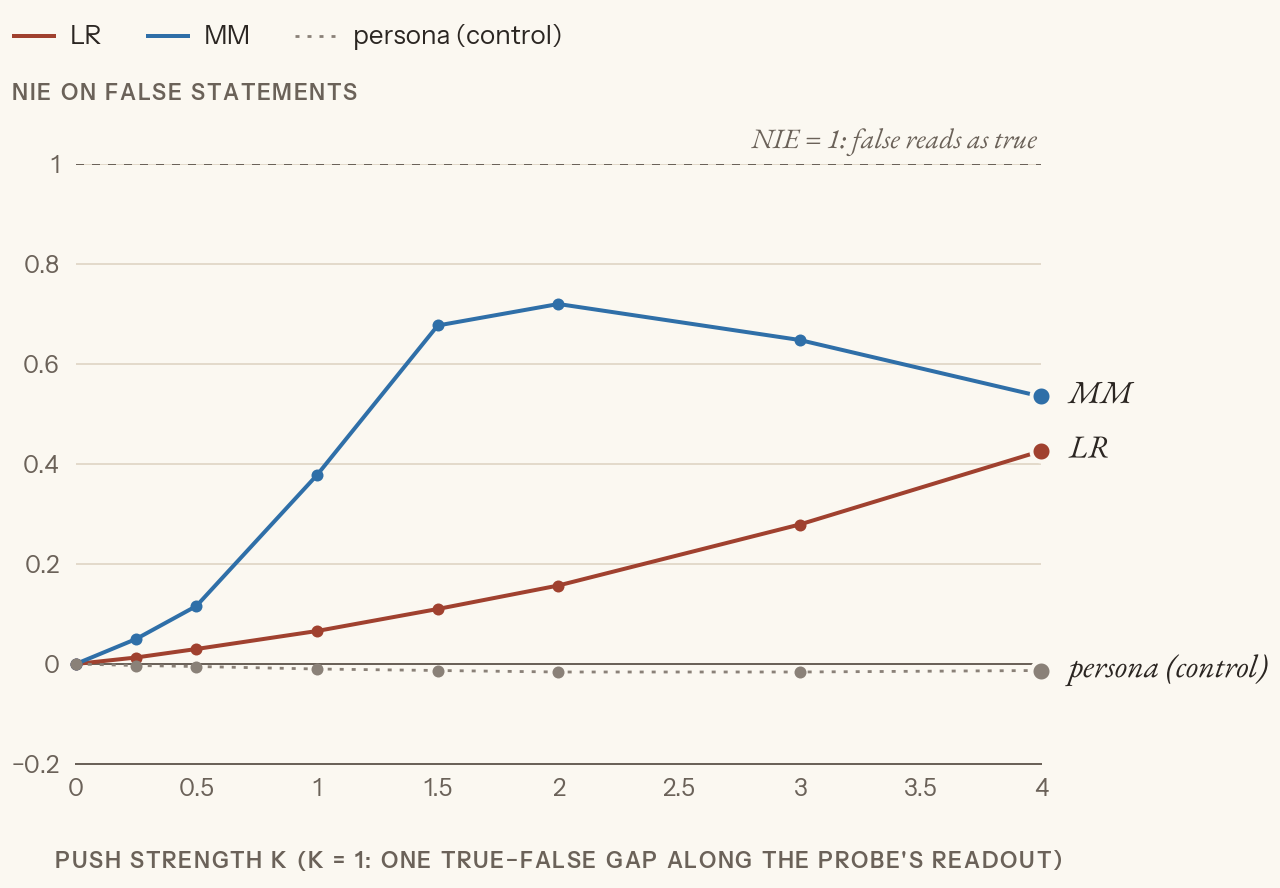
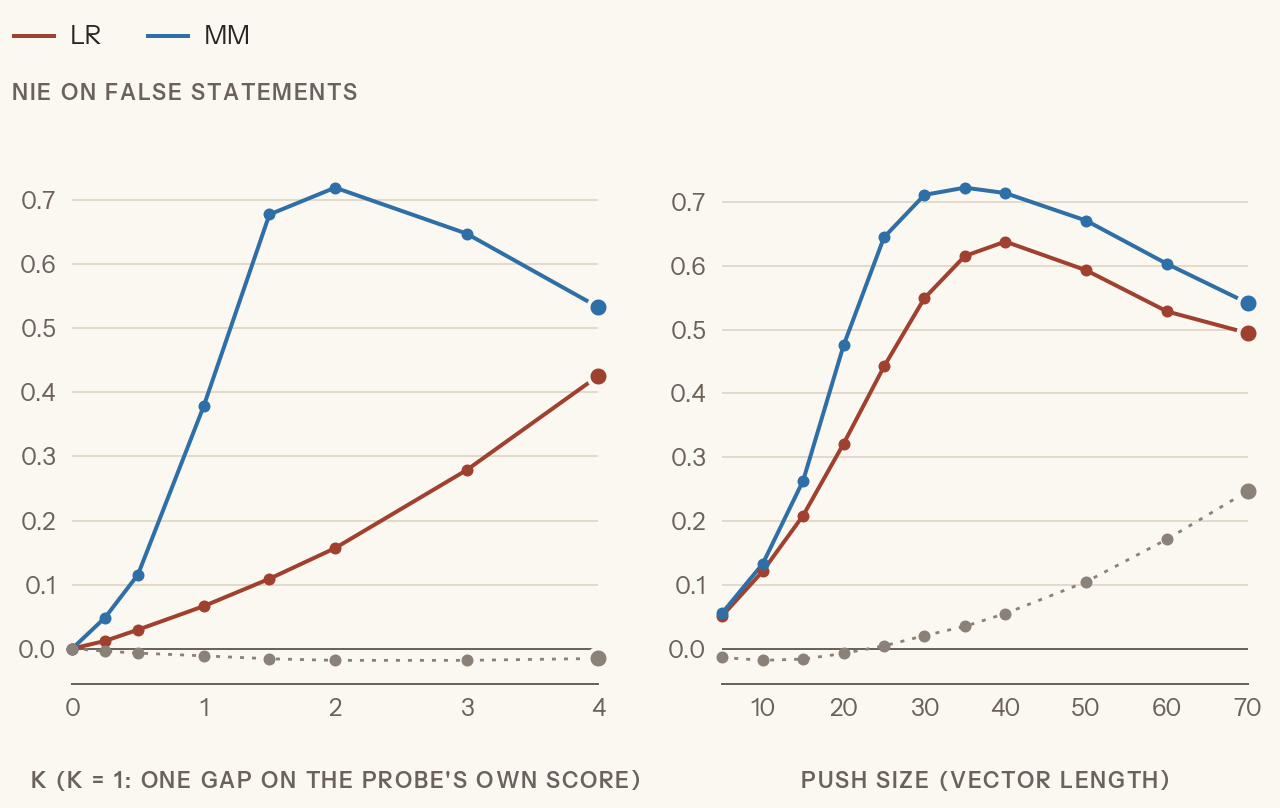
Finding 2: rerun NIE at equal push length; LR and MM are nearly the same lever
Matched by vector length (5-70), LR peaks at 0.64 and MM at 0.72. The 4-6x gap
by the paper's k was mostly MM's vector being 3x longer. README finding 2 now
explains NIE and shows both views.

diff --git a/topics/linear-probes/03_causal.py b/topics/linear-probes/03_causal.py
@@ -60,13 +60,26 @@ curves = pd.DataFrame({n: [nie(v, k) for k in KS] for n, v in V.items()}, index=
 display(curves.T.round(2))
 log.info("NIE at k = 1 / 2 / 4: %s", " · ".join(f"{n} {c[1]:.2f} / {c[2]:.2f} / {c[4]:.2f}" for n, c in curves.items()))
 
+# %% Match by push size instead
+LENGTHS = [5, 10, 15, 20, 25, 30, 35, 40, 50, 60, 70]   # |k·v|: how far the activations actually move
+by_length = pd.DataFrame({n: [nie(v, L / np.linalg.norm(v)) for L in LENGTHS] for n, v in V.items()},
+                         index=pd.Index(LENGTHS, name="length"))
+display(by_length.T.round(2))
+log.info("NIE at push length 20 / 35 / 70: %s",
+         " · ".join(f"{n} {c[20]:.2f} / {c[35]:.2f} / {c[70]:.2f}" for n, c in by_length.items()))
+
 # %% Plot the curves
-savoy.chart("line", {
-    "x": {"title": "push strength k (k = 1: one true−false gap along the probe's readout)", "values": KS},
-    "y": {"title": "NIE on false statements"}, "points": "all",
-    "series": [{"id": n, "label": n, "values": list(c), "baseline": n == "persona (control)"} for n, c in curves.items()],
-    "refs": [{"y": 0}, {"y": 1, "label": "NIE = 1: false reads as true", "threshold": True}],
-}, lib.TOPIC_DIR / "figures/nie_curves.png")
+fig, (a, b) = savoy.figure(1, 2, height=260, ytitle="NIE on false statements",
+                           xtitle=["k (k = 1: one gap on the probe's own score)", "push size (vector length)"])
+for i, n in enumerate(V):
+    c = None if n == "persona (control)" else savoy.color(i)
+    savoy.line(a, KS, list(curves[n]), c, points=True, baseline=c is None)
+    savoy.line(b, LENGTHS, list(by_length[n]), c, points=True, baseline=c is None)
+    if c is not None:
+        savoy.key(fig, n, c)
+for ax in (a, b):
+    savoy.ref(ax, 0, None)
+savoy.save(fig, lib.TOPIC_DIR / "figures/nie_curves.png")
 
 # %% [markdown]
 # ## Part 2 — What the push does to free text

diff --git a/topics/linear-probes/03_causal.md b/topics/linear-probes/03_causal.md
@@ -71,14 +71,30 @@ Qwen knows these facts and says so. Gate passed.
 | **MM** | 0.05 | 0.12 | 0.38 | 0.68 | **0.72** | 0.65 | 0.53 |
 | persona (control) | 0.00 | −0.01 | −0.01 | −0.02 | −0.02 | −0.02 | −0.02 |
 
+- **By k, MM is 4–6× the lever LR is** up to k = 2 (0.38 vs 0.07 at k = 1), with identical classification accuracy. That is Marks & Tegmark's central claim, reproduced on a 4B model [paper → ours]. LR hasn't peaked by k = 4 (0.43).
+- **The persona control stays at 0** over this range.
+- **But k = 1 is not the same push for both.** The matching makes |v_mm| 17.8 and |v_lr| 6.1, so at every k MM moves the activations 3× further. Next step separates direction from size.
+
+### Match by push size instead
+
+**What happens.** Same NIE readout, but each direction is pushed to the same *vector length* |k·v|: 5 to 70, so LR and the control run well past where the k sweep stopped them (LR to k ≈ 11.5). Added 2026-11-02, after the README review flagged the 3× length difference.
+
+**What came out** (NIE on false statements) [ours]:
+
+| push length | 5 | 10 | 15 | 20 | 25 | 30 | 35 | 40 | 50 | 60 | 70 |
+|---|---|---|---|---|---|---|---|---|---|---|---|
+| LR | 0.05 | 0.12 | 0.21 | 0.32 | 0.44 | 0.55 | 0.62 | **0.64** | 0.59 | 0.53 | 0.49 |
+| MM | 0.06 | 0.13 | 0.26 | 0.48 | 0.64 | 0.71 | **0.72** | 0.71 | 0.67 | 0.60 | 0.54 |
+| persona (control) | −0.01 | −0.02 | −0.02 | −0.01 | 0.00 | 0.02 | 0.03 | 0.05 | 0.10 | 0.17 | 0.25 |
+
 ![NIE curves](figures/nie_curves.png)
 
-*How far a push along each direction at block 20 moves false statements toward the model's "true" verdict. MM reaches 0.72 at k = 2, then falls as the push gets destructive. LR climbs slowly and hasn't peaked by k = 4. The persona direction (the grey control) does nothing.* [ours]
+*Left: by k, the paper's matching. Right: the same directions by actual push length, LR and the control extended to 70. Grey: the persona direction (control).* [ours]
 
-- **MM is 4–6× the lever LR is** up to k = 2 (0.38 vs 0.07 at k = 1), with identical classification accuracy. The gap closes at larger pushes as MM turns over and LR keeps climbing (0.53 vs 0.43 at k = 4). **Same accuracy, very different lever.** That is Marks & Tegmark's central claim, reproduced on a 4B model [paper → ours].
-- **The persona control stays at 0**, so NIE measures something truth-specific, not "any push disturbs the logits".
-- **MM turns over after k = 2.** k = 1 already adds one full true − false gap at each of the ~25 context tokens, so larger k starts breaking the text rather than flipping the verdict [synthesis].
-- **Against prediction:** Peter predicted MM ≥ LR, "nothing drastic". Claude predicted MM > LR but modestly, NIE < 0.5 at k = 1, and the control ≈ 0. The control and k = 1 (0.38) were right; the gap was far from modest.
+- **At equal push size, LR and MM are nearly the same lever.** MM leads by at most 1.5× on the way up (0.48 vs 0.32 at length 20), and the peaks are close: MM 0.72 at 35, LR 0.64 at 40. Most of the 4–6× gap by k was push size, not direction.
+- **Both turn over at about the same size** (35–40). So the turnover is about how hard the activations are pushed, not about either direction: past that, the push breaks the text rather than flipping the verdict [synthesis].
+- **The control holds until the pushes get very large.** Flat to length 25, then it creeps up (0.10 at 50, 0.25 at 70). At those sizes any push starts moving the verdict, so the right panel's tail is part truth effect, part disruption [synthesis].
+- **Against prediction:** Peter predicted MM ≥ LR, "nothing drastic". Claude predicted MM > LR but modestly, NIE < 0.5 at k = 1, and the control ≈ 0. By k, the gap was far from modest. By push size, Peter's "nothing drastic" was right.
 
 ---
 
@@ -109,8 +125,7 @@ At k = 4 the push is partly destructive, so the demo shows the direction's reach
 
 ## What this experiment settles, and what it doesn't
 
-- **The truth direction is causally used**, and **MM is the better lever at equal accuracy.** Classification AUROC says little about which direction the model actually computes with.
-- **Caveat: length.** Matched by readout, |v_mm| is 3× |v_lr|. Marks & Tegmark's normalisation is the primary one [paper], but a rerun with equal vector lengths would make "MM > LR" airtight. Parked.
-- **Caveat: LR hasn't peaked** by k = 4; its ceiling is unknown. Parked.
+- **The truth direction is causally used**: both truth directions move the verdict, and the unrelated control doesn't until the pushes get very large.
+- **"MM is the better lever" depends on how push size is measured.** By the paper's k, MM is 4–6× LR. By actual vector length, MM is only slightly ahead (peak 0.72 vs 0.64). So on this model, two probes 70° apart with the same accuracy are nearly the same lever. Neither normalisation is the "true" one: k treats each probe's own score as the yardstick, and length treats every direction in the residual stream as equal, which it isn't [synthesis].
 - **Caveat: format transfer.** θ came from statements written as the assistant and is pushed in a question format. The baseline gate and the negation transfer make this reasonable, not certain.
 - **The open question** is whether θ_mm is honesty, truth, or plausibility. It moved to persona-vectors Exp 2: compare θ_mm against the dishonest, pirate and mystic persona vectors, and steer each one into this same verdict readout. θ_mm, θ_lr and the persona direction are in `cache/` for it.

diff --git a/README.md b/README.md
@@ -16,16 +16,31 @@ as a walk-through you can read without running anything.
 prompt, not the answer. With the persona held fixed, it rates honest answers *about*
 deception as lies. ([linear-probes, Exp 1](topics/linear-probes/01_what_the_probe_reads.md))
 
-**2. Two truth probes with the same accuracy, and one is a far stronger lever.** On
-true/false statements, logistic regression and mass-mean probes both score 0.97. Push the
-activations along each direction, scaled so both move their own probe's score equally, and
-read the model's own true/false verdict. At its best (k = 2), the mass-mean push moves false
-statements 0.72 of the way to where true ones sit; the same push along the regression
-direction moves them 0.16. Regression keeps climbing (0.43 at twice the push) while
-mass-mean falls off as the push starts breaking the text, so the gap is widest at moderate
-strengths. Marks & Tegmark §6, reproduced. ([linear-probes, Exp 3](topics/linear-probes/03_causal.md))
+**2. Two truth probes with the same accuracy make nearly the same lever, once the push is
+measured fairly.** On true/false statements, logistic regression (LR) and mass-mean (MM)
+probes both score 0.97, though their directions are 70° apart. To test whether the model
+*uses* a direction, push the activations along it and read the model's own verdict.
 
-![Steering along each probe direction: how far the model's verdict moves from false to true](topics/linear-probes/figures/nie_curves.png)
+How the verdict is read: ask "Is this statement true or false?" and take Δ = logP(True) −
+logP(False) for its one-word answer. Unpushed, Δ averages +17.5 on true statements and −19.1
+on false ones. The **NIE** (normalised indirect effect) is how far a push moves false
+statements across that gap: 0 is no change, 1 means they now get the same verdict as true
+ones, 0.5 is halfway.
+
+Scaled the paper's way (left), MM looks like a far stronger lever: 0.72 against LR's 0.16 at
+k = 2. But that scaling makes MM's vector 3× longer than LR's at every k. Matched by how far
+the activations actually move (right), the two nearly coincide: both peak at a push of about
+35–40, MM at 0.72 and LR at 0.64, and both fall off beyond it as the push starts breaking
+the text. So Marks & Tegmark §6 reproduces under their scaling, but most of the gap is push
+size, not direction. ([linear-probes, Exp 3](topics/linear-probes/03_causal.md))
+
+![Steering along each probe direction: how far the model's verdict moves from false to true, by k and by actual push size](topics/linear-probes/figures/nie_curves.png)
+
+*Left: k = 1 moves each probe's own score by one true − false gap, which takes a vector 6.1
+long for LR and 17.8 for MM. Right: the same pushes by vector length. The grey line is a
+direction from an unrelated probe (the persona probe from Exp 1). It does nothing up to a
+push of 25 and only creeps up past 40 (0.25 at 70), so the truth directions' effect is
+specific to them.*
 
 **3. Character traits are directions you can steer with, to different degrees.** Persona
 vectors for *dishonest*, *pirate* and *mystic*, added at block 18 with no instruction:

diff --git a/topics/linear-probes/experiments.md b/topics/linear-probes/experiments.md
@@ -21,7 +21,8 @@
    - Persona fixed, label = is the statement true: 0.969 (LR) / 0.968 (MM) at block 20.
    - It survives negation at 0.80, so it's not surface plausibility.
 3. **Exp 3: is it a lever?** (`03_causal.md`).
-   - Pushing along θ_mm moves the model's own true/false verdict up to NIE 0.72 (k = 2); θ_lr moves it 0.16 at the same push and 0.43 at k = 4, at identical AUROC. Marks & Tegmark §6, reproduced.
+   - Both truth directions move the model's own true/false verdict; an unrelated direction doesn't.
+   - By the paper's matched k, θ_mm is 4–6× the lever θ_lr is (Marks & Tegmark §6, reproduced). Matched by actual push length, they're nearly equal: peak NIE 0.72 vs 0.64 (rerun 2026-11-02).
    - In free text, θ_mm acts like an honesty *disposition*, not world-truth.
 
 **Net:** classification accuracy says little about *what* a probe reads, or *whether* the model uses it. Tests that pull correlated features apart, and causal pushes, are where the answers are.
@@ -70,6 +71,4 @@ Not pursuing; scope cap is 3 experiments, and this topic originally ran 5:
 - diverse personas;
 - raw text with no persona plus a `likely` control;
 - a negation-balanced retrain;
-- a rerun with equal steering-vector lengths;
-- an extended LR push sweep;
 - attention probes, SAE-latent probes, multi-layer ensembles.
